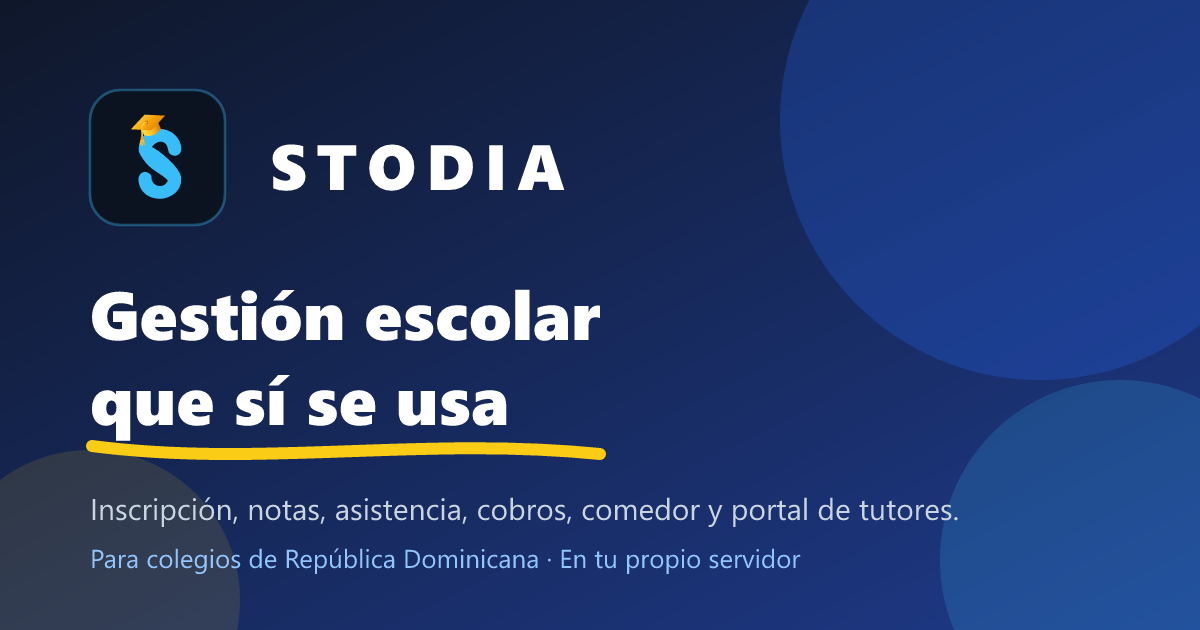
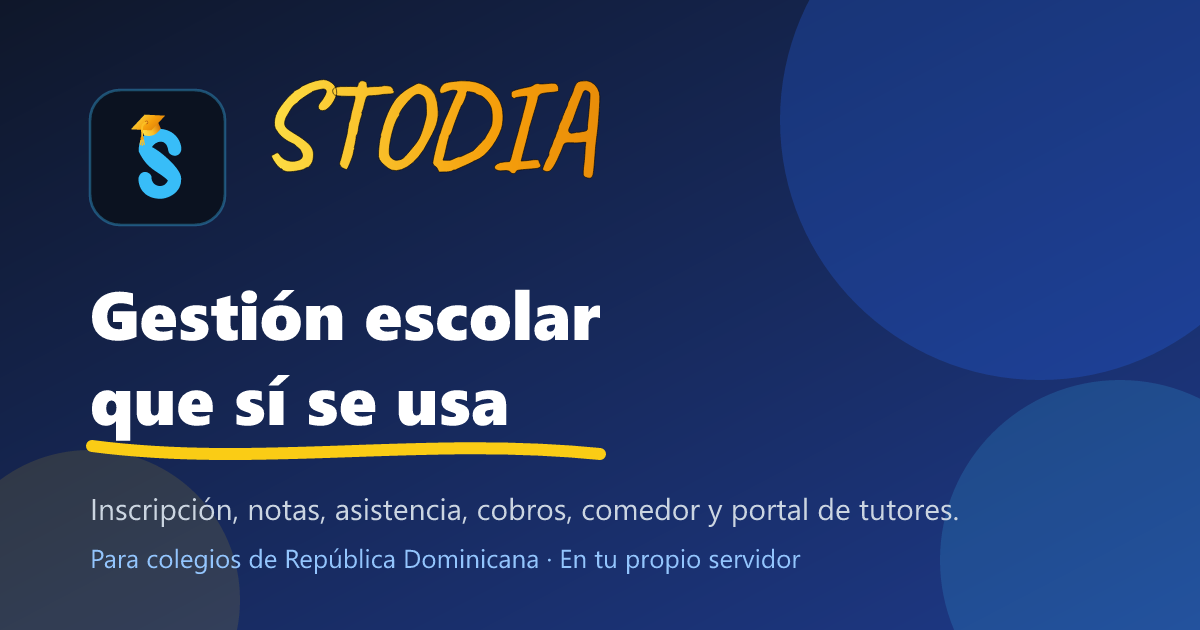
Add STODIA wordmark SVG and script for generation
- Introduced a new SVG file for the STODIA wordmark located at landing-site/public/brand/stodia-wordmark.svg.
- Created a script (make-wordmark.mjs) to generate the wordmark SVG from the Caveat font, ensuring it is converted to paths for compatibility.
- The script includes parameters for font size, position, and stroke width, and outputs the SVG to both apps/web/public/brand/stodia-wordmark.svg and landing-site/public/brand/stodia-wordmark.svg.

Changed region(s): [[0.2158, 0.1206, 0.5242, 0.3016]]

diff --git a/apps/web/src/components/finanzas/print.tsx b/apps/web/src/components/finanzas/print.tsx
@@ -109,7 +109,7 @@ export function Paper({ doc, pi, bare }: { doc: PDoc; pi: number; bare?: boolean
     }}>
       {carta && (
         <div style={{ display: 'flex', justifyContent: 'space-between', alignItems: 'center', gap: 12, paddingBottom: 12, borderBottom: '2px solid #000000', marginBottom: 18 }}>
-          <div style={{ display: 'flex', alignItems: 'center', gap: 10 }}><img src="/brand/stodia-mark.svg" alt="" style={{ height: 44, width: "auto" }} /><div style={{ lineHeight: 1.25 }}><div style={{ fontWeight: 700, letterSpacing: '0.1em', fontSize: 13 }}>STODIA</div><div style={{ fontSize: 10 }}>Sistema Escolar Integral</div></div></div>
+          <div style={{ display: 'flex', alignItems: 'center', gap: 10 }}><img src="/brand/stodia-mark.svg" alt="" style={{ height: 44, width: "auto" }} /><div style={{ lineHeight: 1.25 }}><img src="/brand/stodia-wordmark.svg" alt="STODIA" style={{ height: 22, width: "auto", display: "block" }} /><div style={{ fontSize: 10 }}>Sistema Escolar Integral</div></div></div>
           <div style={{ display: 'flex', alignItems: 'center', gap: 10, textAlign: 'right' }}><div style={{ lineHeight: 1.25 }}><div style={{ fontWeight: 700, fontSize: 13, letterSpacing: '0.04em' }}>{legal}</div><div style={{ fontSize: 10 }}>{rnc ? 'RNC ' + rnc : ''}{ciudad ? ' · ' + ciudad : ''}</div></div><div style={{ width: 44, height: 44, border: '2px solid #000000', display: 'grid', placeItems: 'center', fontWeight: 700, fontSize: 15 }}>{iniciales}</div></div>
         </div>
       )}

diff --git a/apps/web/src/pages/legal/LegalLayout.tsx b/apps/web/src/pages/legal/LegalLayout.tsx
@@ -71,7 +71,7 @@ export default function LegalLayout({ title, description, sections, children }: 
       <a href="#contenido" className="sr-only focus:not-sr-only focus:absolute focus:left-2 focus:top-2 focus:z-50 focus:rounded focus:bg-white focus:px-3 focus:py-2 print:hidden">Saltar al contenido</a>
       <header className="border-b border-slate-200 bg-white print:border-0">
         <div className="mx-auto flex max-w-6xl items-center justify-between gap-3 px-4 py-3">
-          <Link to="/" aria-label="STODIA, ir al inicio"><img src="/brand/stodia-mark.svg" alt="STODIA" className="h-8 w-auto" /></Link>
+          <Link to="/" aria-label="STODIA, ir al inicio"><span className="flex items-center gap-2"><img src="/brand/stodia-mark.svg" alt="" className="h-8 w-auto" /><img src="/brand/stodia-wordmark.svg" alt="" className="h-8 w-auto" /></span></Link>
           <div className="flex items-center gap-2 print:hidden">
             <button type="button" onClick={() => window.print()} className="rounded-md border border-slate-300 px-3 py-1.5 text-sm text-slate-700 hover:bg-slate-50 focus:outline-none focus-visible:ring-2 focus-visible:ring-[#2563EB]">Imprimir</button>
             <Link to="/" className="rounded-md bg-[#2563EB] px-3 py-1.5 text-sm font-medium text-white hover:bg-blue-700 focus:outline-none focus-visible:ring-2 focus-visible:ring-offset-2 focus-visible:ring-[#2563EB]">&larr; Volver al inicio</Link>

diff --git a/landing-site/src/pages/legal/LegalLayout.tsx b/landing-site/src/pages/legal/LegalLayout.tsx
@@ -71,7 +71,7 @@ export default function LegalLayout({ title, description, sections, children }: 
       <a href="#contenido" className="sr-only focus:not-sr-only focus:absolute focus:left-2 focus:top-2 focus:z-50 focus:rounded focus:bg-white focus:px-3 focus:py-2 print:hidden">Saltar al contenido</a>
       <header className="border-b border-slate-200 bg-white print:border-0">
         <div className="mx-auto flex max-w-6xl items-center justify-between gap-3 px-4 py-3">
-          <Link to="/" aria-label="STODIA, ir al inicio"><img src="/brand/stodia-mark.svg" alt="STODIA" className="h-8 w-auto" /></Link>
+          <Link to="/" aria-label="STODIA, ir al inicio"><span className="flex items-center gap-2"><img src="/brand/stodia-mark.svg" alt="" className="h-8 w-auto" /><img src="/brand/stodia-wordmark.svg" alt="" className="h-8 w-auto" /></span></Link>
           <div className="flex items-center gap-2 print:hidden">
             <button type="button" onClick={() => window.print()} className="rounded-md border border-slate-300 px-3 py-1.5 text-sm text-slate-700 hover:bg-slate-50 focus:outline-none focus-visible:ring-2 focus-visible:ring-[#2563EB]">Imprimir</button>
             <Link to="/" className="rounded-md bg-[#2563EB] px-3 py-1.5 text-sm font-medium text-white hover:bg-blue-700 focus:outline-none focus-visible:ring-2 focus-visible:ring-offset-2 focus-visible:ring-[#2563EB]">&larr; Volver al inicio</Link>

diff --git a/apps/web/public/sw.js b/apps/web/public/sw.js
@@ -1,7 +1,7 @@
 // Service worker mínimo: cachea el shell (navegación) para que la PWA sea instalable y abra sin red.
 // Las llamadas a la API nunca se cachean.
-// v2 (2026-10): nuevo logo /brand/stodia-mark.svg + iconos. Subir el numero al cambiar logo/iconos: el SW sirve .svg/.png cache-first y activate borra cachés distintas.
-const CACHE = 'stodia-shell-v2';
+// v3 (2026-10): nuevo wordmark /brand/stodia-wordmark.svg (trazos). v2 (2026-10): nuevo logo /brand/stodia-mark.svg + iconos. Subir el numero al cambiar logo/iconos: el SW sirve .svg/.png cache-first y activate borra cachés distintas.
+const CACHE = 'stodia-shell-v3';
 self.addEventListener('install', e => { e.waitUntil(caches.open(CACHE).then(c => c.addAll(['/', '/icon-192.png'])).then(() => self.skipWaiting())); });
 self.addEventListener('activate', e => { e.waitUntil(caches.keys().then(ks => Promise.all(ks.filter(k => k !== CACHE).map(k => caches.delete(k)))).then(() => self.clients.claim())); });
 self.addEventListener('fetch', e => {

diff --git a/apps/web/src/layouts/AppLayout.tsx b/apps/web/src/layouts/AppLayout.tsx
@@ -14,10 +14,10 @@ const mono = "'JetBrains Mono',monospace";
 function Brand({ institution }: { institution: string }) {
   return (
     <div className="flex w-[268px] flex-none items-center gap-3 max-md:w-auto">
-      <img src="/brand/stodia-mark.svg" alt="STODIA" className="block h-11 w-auto flex-none" />
+      <img src="/brand/stodia-mark.svg" alt="" className="block h-11 w-auto flex-none" />
       <div className="flex min-w-0 flex-col leading-[1.25]">
         <span className="whitespace-nowrap text-[17px] font-semibold leading-[inherit] text-[#F8FAFC]">{institution}</span>
-        <span className="whitespace-nowrap text-[14px] leading-[inherit] text-[#94A3B8]">Stodia · Sistema Escolar</span>
+        <span className="flex items-center gap-1.5 whitespace-nowrap text-[14px] leading-[inherit] text-[#94A3B8]"><img src="/brand/stodia-wordmark.svg" alt="STODIA" className="block h-[18px] w-auto flex-none" /><span>· Sistema Escolar</span></span>
       </div>
     </div>
   );

diff --git a/landing-site/src/components/landing/Header.tsx b/landing-site/src/components/landing/Header.tsx
@@ -29,7 +29,7 @@ export default function Header({ scrolled }: { scrolled: boolean }) {
       <div className={`mx-auto flex max-w-7xl items-center justify-between gap-4 px-4 transition-all duration-300 sm:px-6 ${scrolled ? 'h-14' : 'h-[68px]'}`}>
         <Link to="/" className="flex items-center gap-2.5 rounded-lg" aria-label="STODIA, ir al inicio" onClick={close}>
           <img src="/brand/stodia-mark.svg" alt="" height={36} className="h-9 w-auto" />
-          <span className="text-lg font-extrabold tracking-[0.16em] text-ink">STODIA</span>
+          <img src="/brand/stodia-wordmark.svg" alt="" width={117} height={36} className="h-9 w-auto" />
         </Link>
         <nav aria-label="Principal" className="hidden items-center gap-1 lg:flex">
           {NAV_LINKS.map(l => <a key={l.href} href={l.href} className={linkCls}>{l.label}</a>)}

diff --git a/apps/web/src/pages/ServerSetup.tsx b/apps/web/src/pages/ServerSetup.tsx
@@ -30,7 +30,8 @@ export default function ServerSetup() {
 
   return (
     <div className="flex min-h-full flex-col items-center justify-center bg-[#0B1B4A] px-5 py-8 pt-[max(2rem,env(safe-area-inset-top))]">
-      <img src="/brand/stodia-mark.svg" alt="STODIA" className="mb-4 h-20 w-auto" />
+      <img src="/brand/stodia-mark.svg" alt="" className="h-20 w-auto" />
+      <img src="/brand/stodia-wordmark.svg" alt="STODIA" className="mb-4 mt-2 h-12 w-auto" />
       <form onSubmit={submit} noValidate className="w-full max-w-md rounded-3xl bg-white/95 p-6 shadow-2xl">
         <h1 className="text-xl font-bold text-ink">Conectar con tu institución</h1>
         <p className="mb-5 mt-1 text-sm text-slate-500">Escribe la dirección del servidor STODIA que te dio tu institución.</p>

diff --git a/apps/web/src/components/blog/BlogLayout.tsx b/apps/web/src/components/blog/BlogLayout.tsx
@@ -17,7 +17,7 @@ export default function BlogLayout({ children }: { children: ReactNode }) {
         <div className="mx-auto flex h-16 max-w-6xl items-center justify-between gap-3 px-4 sm:px-6">
           <Link to="/" className="flex items-center gap-2.5 rounded-lg" aria-label="STODIA, ir al inicio">
             <img src="/brand/stodia-mark.svg" alt="" height={36} className="h-9 w-auto" />
-            <span className="text-lg font-extrabold tracking-[0.16em] text-ink">STODIA</span>
+            <img src="/brand/stodia-wordmark.svg" alt="" width={117} height={36} className="h-9 w-auto" />
           </Link>
           <nav aria-label="Principal" className="flex items-center gap-1 print:hidden">
             <Link to="/" className={`${link} hidden sm:inline-flex`}>Inicio</Link>

diff --git a/landing-site/src/components/blog/BlogLayout.tsx b/landing-site/src/components/blog/BlogLayout.tsx
@@ -17,7 +17,7 @@ export default function BlogLayout({ children }: { children: ReactNode }) {
         <div className="mx-auto flex h-16 max-w-6xl items-center justify-between gap-3 px-4 sm:px-6">
           <Link to="/" className="flex items-center gap-2.5 rounded-lg" aria-label="STODIA, ir al inicio">
             <img src="/brand/stodia-mark.svg" alt="" height={36} className="h-9 w-auto" />
-            <span className="text-lg font-extrabold tracking-[0.16em] text-ink">STODIA</span>
+            <img src="/brand/stodia-wordmark.svg" alt="" width={117} height={36} className="h-9 w-auto" />
           </Link>
           <nav aria-label="Principal" className="flex items-center gap-1 print:hidden">
             <Link to="/" className={`${link} hidden sm:inline-flex`}>Inicio</Link>

diff --git a/apps/web/src/components/landing/Header.tsx b/apps/web/src/components/landing/Header.tsx
@@ -35,7 +35,7 @@ export default function Header({ scrolled }: { scrolled: boolean }) {
       <div className={`mx-auto flex max-w-7xl items-center justify-between gap-4 px-4 transition-all duration-300 sm:px-6 ${scrolled ? 'h-14' : 'h-[68px]'}`}>
         <Link to="/" className="flex items-center gap-2.5 rounded-lg" aria-label="STODIA, ir al inicio" onClick={close}>
           <img src="/brand/stodia-mark.svg" alt="" height={36} className="h-9 w-auto" />
-          <span className="text-lg font-extrabold tracking-[0.16em] text-ink">STODIA</span>
+          <img src="/brand/stodia-wordmark.svg" alt="" width={117} height={36} className="h-9 w-auto" />
         </Link>
 
         <nav aria-label="Principal" className="hidden items-center gap-1 lg:flex">

diff --git a/apps/web/src/components/landing/Footer.tsx b/apps/web/src/components/landing/Footer.tsx
@@ -11,7 +11,7 @@ export default function Footer() {
         <div>
           <Link to="/" className="inline-flex items-center gap-2.5" aria-label="STODIA, ir al inicio">
             <img src="/brand/stodia-mark.svg" alt="" height={36} className="h-9 w-auto" loading="lazy" />
-            <span className="text-lg font-extrabold tracking-[0.16em] text-white">STODIA</span>
+            <img src="/brand/stodia-wordmark.svg" alt="" width={117} height={36} className="h-9 w-auto" />
           </Link>
           <p className="mt-4 max-w-xs text-sm leading-relaxed">{SITE.tagline}. Una instancia por colegio, autoalojada o gestionada.</p>
         </div>

diff --git a/landing-site/src/components/landing/Footer.tsx b/landing-site/src/components/landing/Footer.tsx
@@ -10,7 +10,7 @@ export default function Footer() {
         <div>
           <Link to="/" className="inline-flex items-center gap-2.5" aria-label="STODIA, ir al inicio">
             <img src="/brand/stodia-mark.svg" alt="" height={36} className="h-9 w-auto" loading="lazy" />
-            <span className="text-lg font-extrabold tracking-[0.16em] text-white">STODIA</span>
+            <img src="/brand/stodia-wordmark.svg" alt="" width={117} height={36} className="h-9 w-auto" />
           </Link>
           <p className="mt-4 max-w-xs text-sm leading-relaxed">{SITE.tagline}. Una instancia por colegio, autoalojada o gestionada.</p>
         </div>
